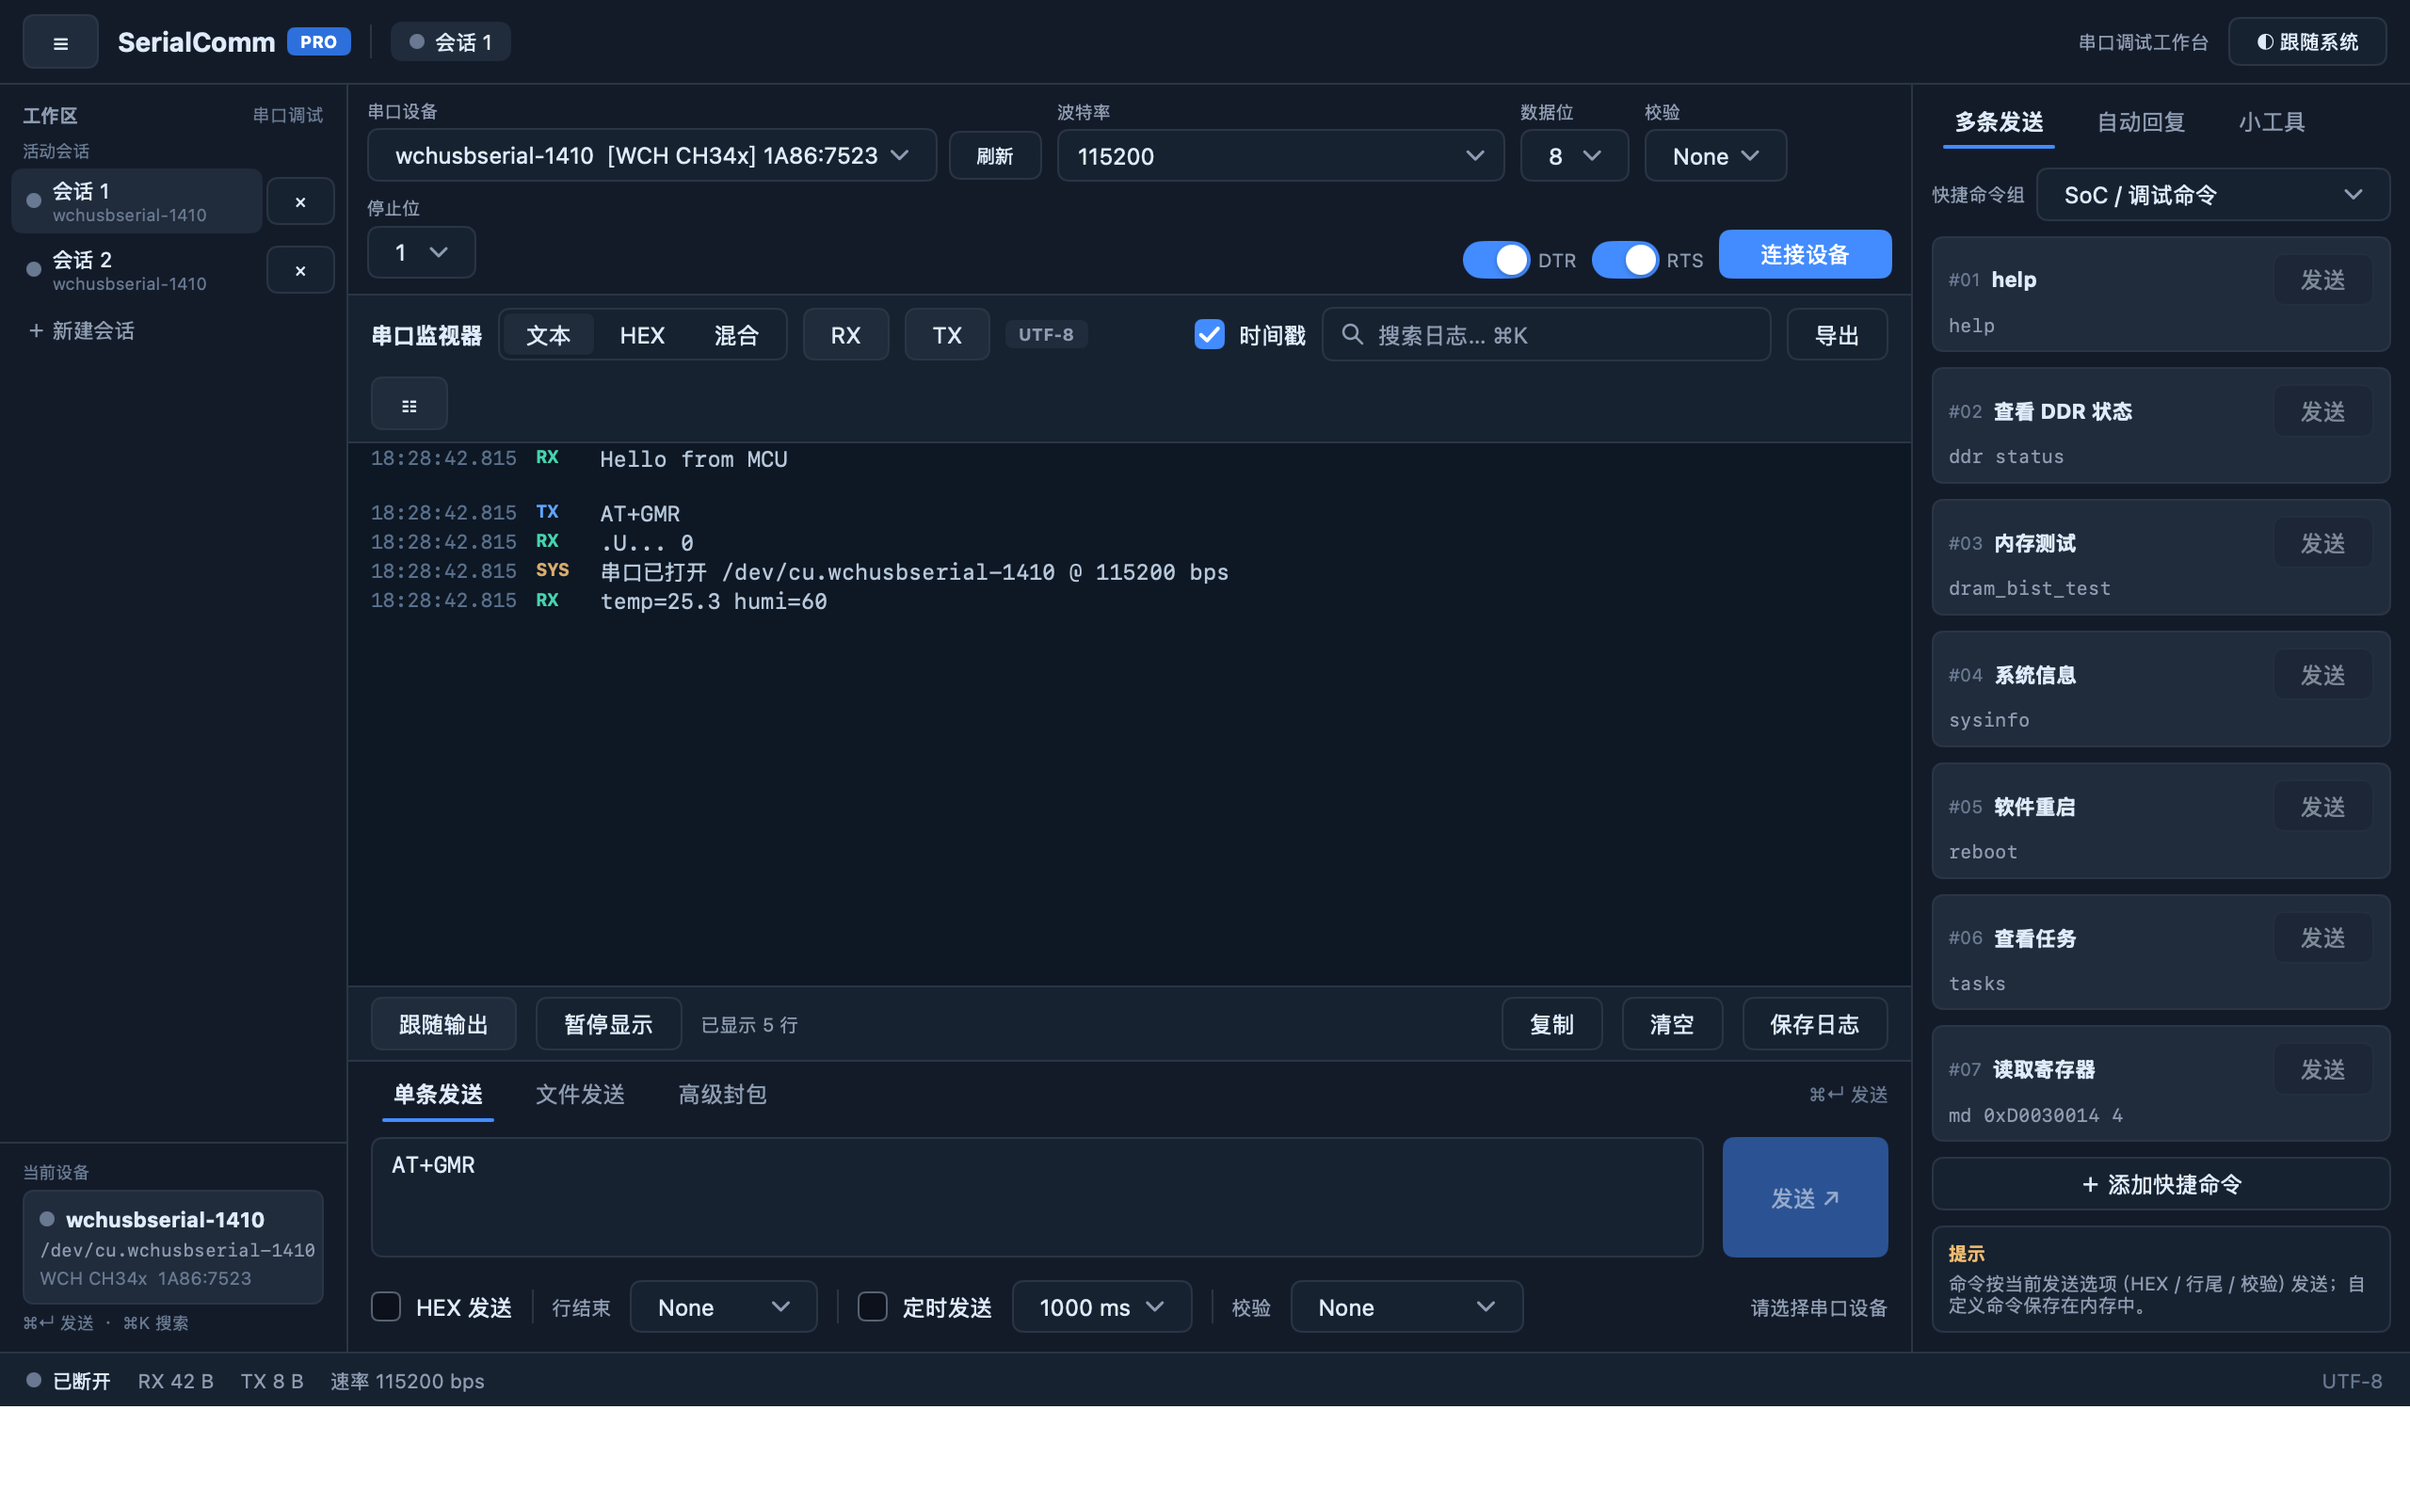
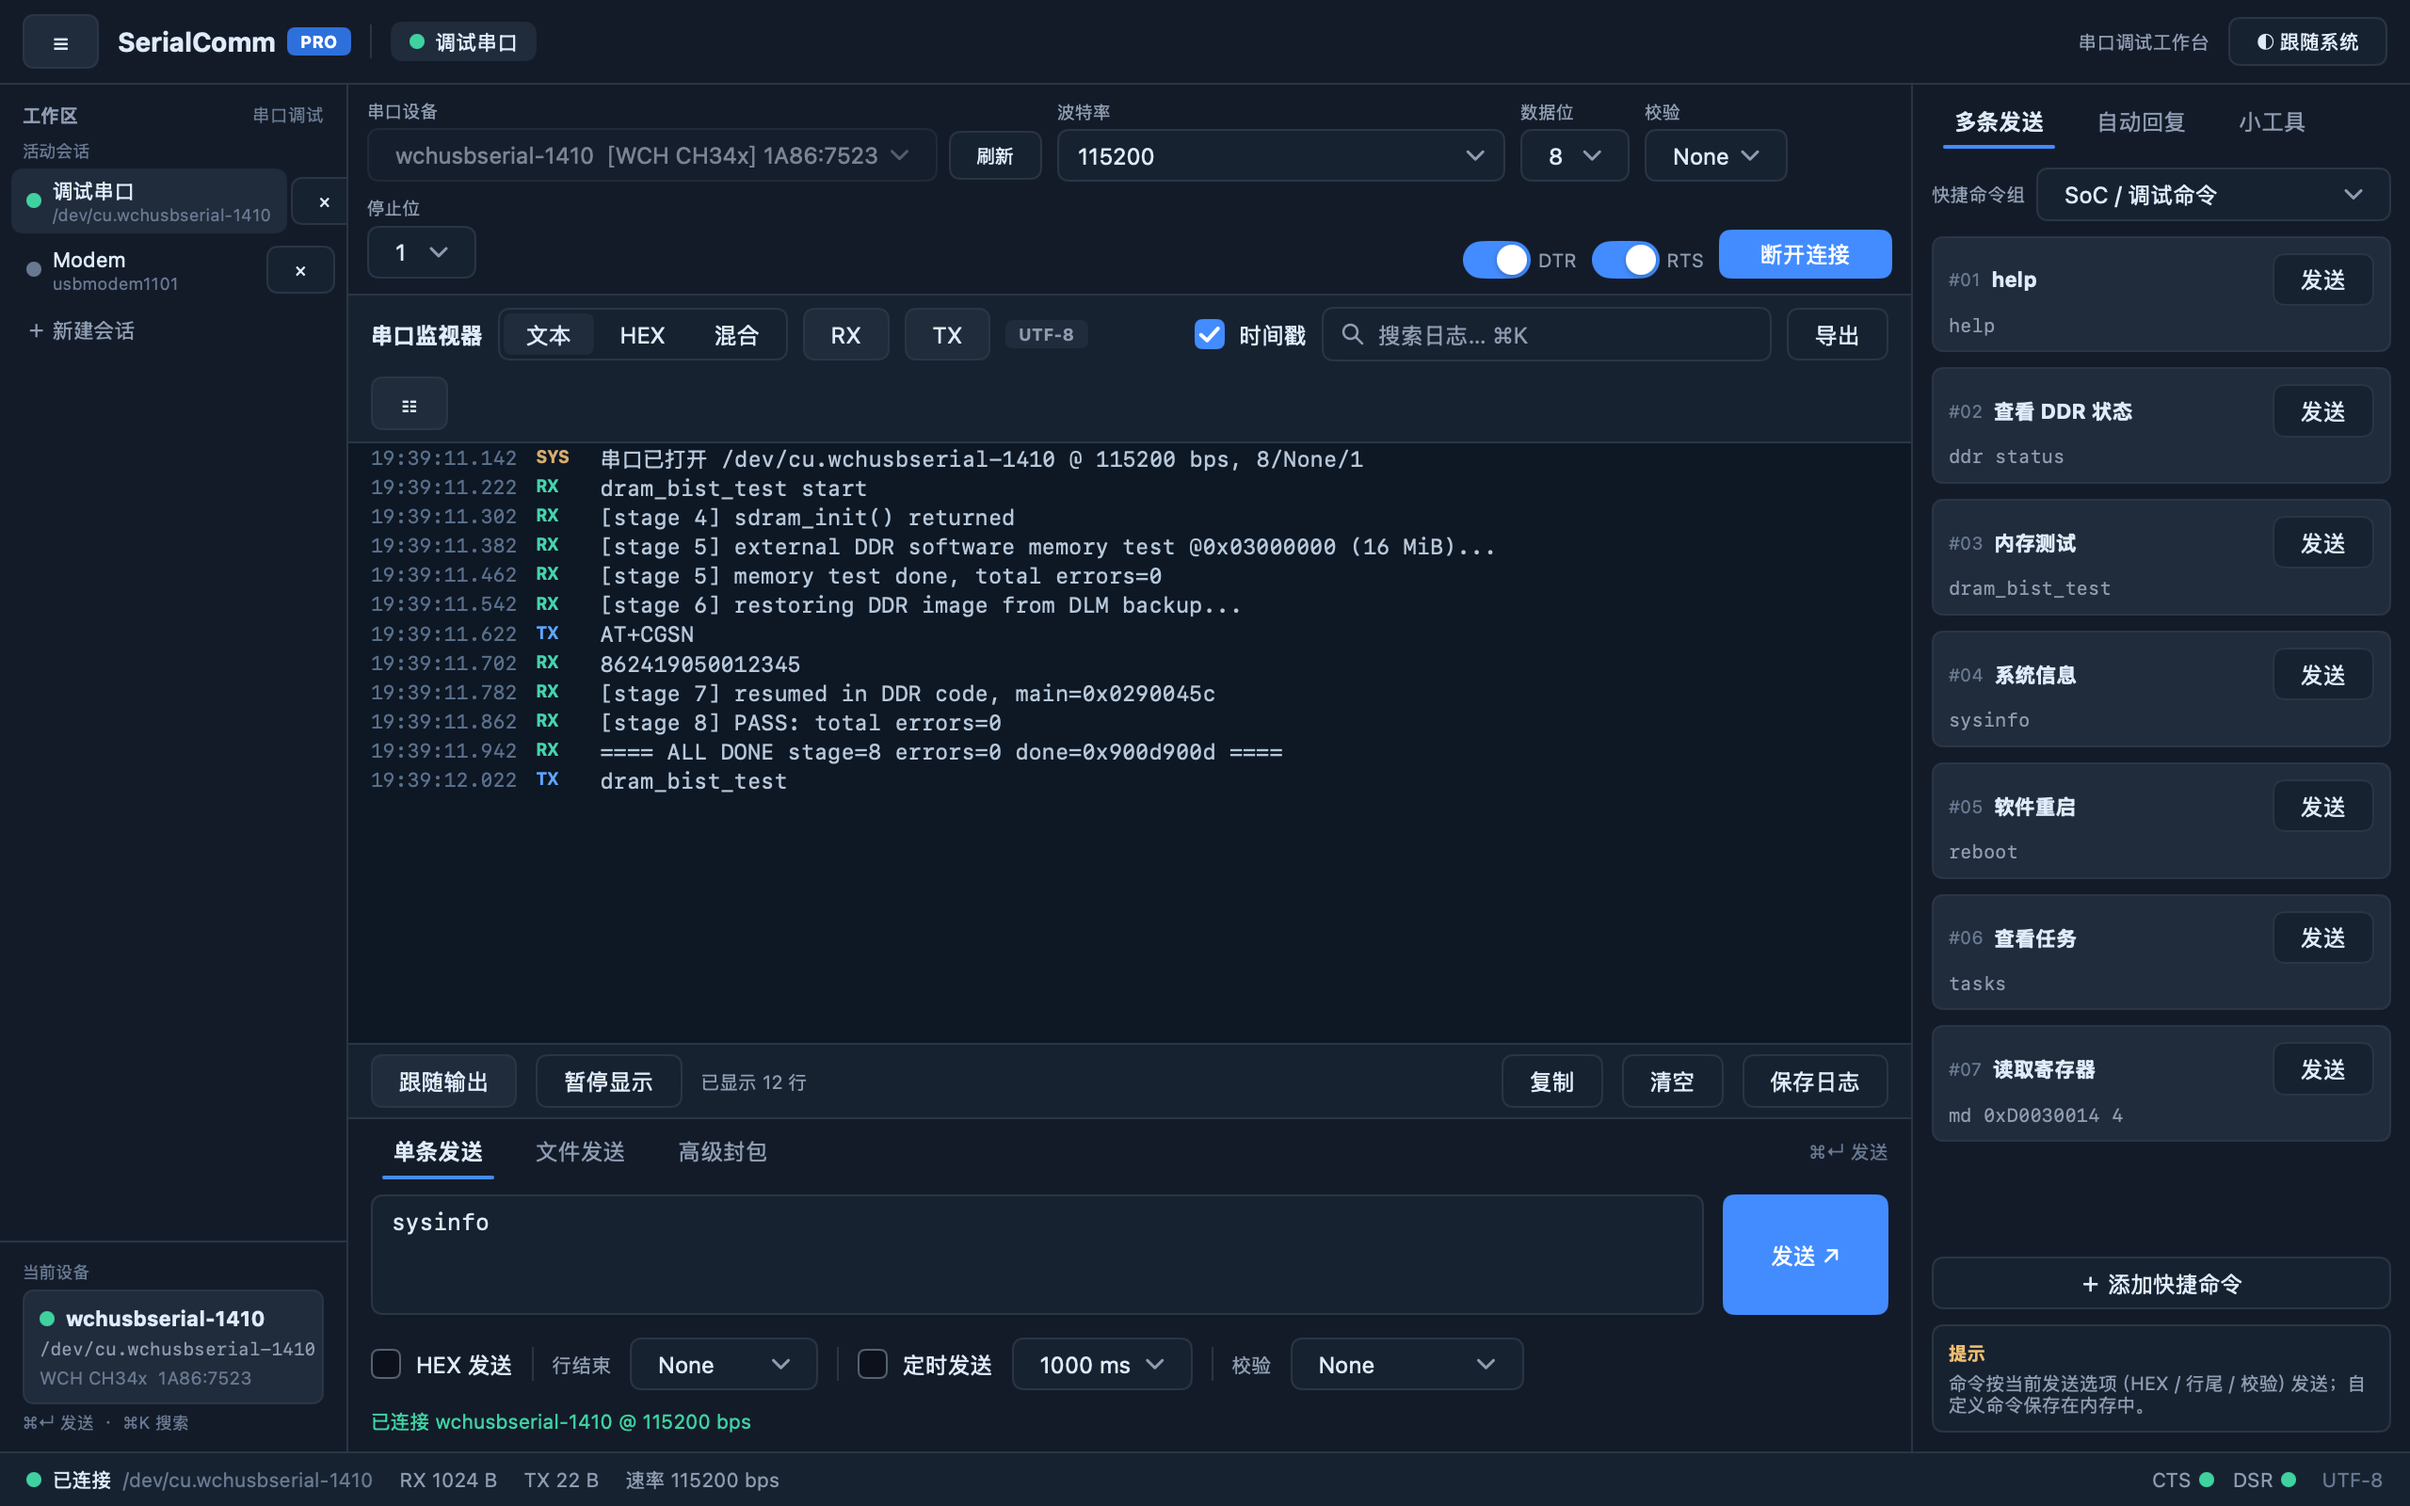
Refresh README and regenerate screenshots from the current UI
Screenshots now render a live-looking workspace (two sessions, an open
port, tagged log lines, quick commands, CTS/DSR) for both themes and
are written straight into docs/ by the render test. README covers the
workspace, console, checksum, quick commands, modem indicators and
theme features, plus Releases install steps, the fuzz test and the
CI badge.

Generated with Devin (https://devin.ai)

diff --git a/render_test.go b/render_test.go
@@ -17,26 +17,53 @@ func TestRenderScreenshot(t *testing.T) {
 		{Name: "/dev/cu.usbmodem1101", Base: "usbmodem1101", Chip: "CDC-ACM"},
 	}
 	s := a.activeSession()
+	s.name = "调试串口"
 	s.portSel = a.ports[0].label()
-	s.rxRecords = []rxRecord{
-		{id: 1, ts: time.Now(), dir: dirRX, data: []byte("Hello from MCU\r\n")},
-		{id: 2, ts: time.Now(), dir: dirTX, data: []byte("AT+GMR")},
-		{id: 3, ts: time.Now(), dir: dirRX, data: []byte{0xAA, 0x55, 0x03, 0xFF, 0x10, 0x20, 0x30}},
-		{id: 4, ts: time.Now(), dir: dirSYS, data: []byte("串口已打开 /dev/cu.wchusbserial-1410 @ 115200 bps")},
-		{id: 5, ts: time.Now(), dir: dirRX, data: []byte("temp=25.3 humi=60\n")},
-	}
+	s.opened = true
+	s.devName = "/dev/cu.wchusbserial-1410"
+	s.cts, s.dsr = true, true
+	s.status = "已连接 wchusbserial-1410 @ 115200 bps"
+	s.statusKind = 1
 	s.showTS = true
-	s.rxCount = 42
-	s.txCount = 8
-	s.sendText = "AT+GMR"
-	a.newSession()
+	now := time.Now()
+	lines := []struct {
+		dir  int
+		data string
+	}{
+		{dirSYS, "串口已打开 /dev/cu.wchusbserial-1410 @ 115200 bps, 8/None/1"},
+		{dirRX, "dram_bist_test start\r\n"},
+		{dirRX, "[stage 4] sdram_init() returned\r\n"},
+		{dirRX, "[stage 5] external DDR software memory test @0x03000000 (16 MiB)...\r\n"},
+		{dirRX, "[stage 5] memory test done, total errors=0\r\n"},
+		{dirRX, "[stage 6] restoring DDR image from DLM backup...\r\n"},
+		{dirTX, "AT+CGSN"},
+		{dirRX, "862419050012345\r\n"},
+		{dirRX, "[stage 7] resumed in DDR code, main=0x0290045c\r\n"},
+		{dirRX, "[stage 8] PASS: total errors=0\r\n"},
+		{dirRX, "==== ALL DONE stage=8 errors=0 done=0x900d900d ====\r\n"},
+		{dirTX, "dram_bist_test"},
+	}
+	for i, l := range lines {
+		s.rxRecords = append(s.rxRecords, rxRecord{
+			id: i + 1, ts: now.Add(time.Duration(i) * 80 * time.Millisecond),
+			dir: l.dir, data: []byte(l.data),
+		})
+	}
+	s.rxCount = 1024
+	s.txCount = 22
+	s.sendText = "sysinfo"
+
+	s2 := a.newSession()
+	s2.name = "Modem"
+	s2.portSel = a.ports[2].label()
 	a.active = 0
+
 	for _, dark := range []bool{true, false} {
 		a.dark = dark
 		img := ui.Render(a.view, 1280, 800, 2)
-		name := "/tmp/serialcomm_render_dark.png"
+		name := "docs/screenshot.png"
 		if !dark {
-			name = "/tmp/serialcomm_render_light.png"
+			name = "docs/screenshot-light.png"
 		}
 		f, err := os.Create(name)
 		if err != nil {

diff --git a/README.md b/README.md
@@ -1,32 +1,59 @@
 # SerialComm
 
-A serial port tool for macOS in the spirit of SSCOM — written in pure Go
-with [MyGo](https://github.com/egoist/mygo) native UI (GPU-rendered, no
-webview, no cgo) and [go.bug.st/serial](https://go.bug.st/serial).
+[![CI](https://github.com/xixijay1988/SerialComm/actions/workflows/ci.yml/badge.svg)](https://github.com/xixijay1988/SerialComm/actions/workflows/ci.yml)
+
+A serial port debugging tool for macOS in the spirit of SSCOM — written
+in pure Go with [MyGo](https://github.com/egoist/mygo) native UI
+(GPU-rendered, no webview, no cgo) and
+[go.bug.st/serial](https://go.bug.st/serial).
 
 ![SerialComm](docs/screenshot.png)
 
+<details><summary>Light theme</summary>
+
+![SerialComm light](docs/screenshot-light.png)
+
+</details>
+
 ## Features
 
-- **Port enumeration** — lists `/dev/cu.*` devices with chipset detection
-  (WCH CH34x incl. CH347, FTDI, Silicon Labs CP210x, Prolific PL2303,
-  CDC-ACM, Espressif, STM32…) and USB VID:PID resolved through IOKit;
-  the list refreshes itself on plug/unplug
+- **Workspace sessions** — multiple independent sessions, each with its
+  own port, configuration, log, counters and send settings; create,
+  switch and close from the sidebar
+- **Port enumeration** — lists `/dev/cu.*` devices with chipset
+  detection (WCH CH34x incl. CH347, FTDI, CP210x, PL2303, CDC-ACM,
+  Espressif, STM32…) and USB VID:PID resolved through IOKit; the list
+  refreshes itself on plug/unplug
 - **Full port configuration** — baud rate (editable, incl. non-standard
   rates), data bits 5–8, parity None/Odd/Even/Mark/Space, stop bits
   1/1.5/2 — re-applied live while the port is open
-- **Receive** — Text/HEX display, per-chunk timestamps, pause, clear,
-  save to file, RX/TX byte counters, auto-scroll to newest data
-- **Send** — text or HEX input, line-ending suffix (None/\r/\n/\r\n/\n\r),
-  periodic send with a configurable interval
+- **Console** — Text/HEX/mixed display, RX/TX/SYS tags, per-line
+  timestamps, RX/TX filters, search (⌘K), pause, follow-tail,
+  selectable and copyable log text, copy/clear/save; stale driver
+  buffer is flushed on connect so the log starts at the live stream
+- **Send** — text or HEX input, line-ending suffix (None/CR/LF/CRLF),
+  periodic send with a configurable interval, appended checksum
+  (CRC16-Modbus, CRC16-CCITT, SUM8, XOR8), ⌘↵ to send
+- **Quick commands** — preset command groups (SoC debug, AT, Modbus
+  RTU) plus user-defined commands, one click to send
 - **Modem lines** — DTR/RTS toggles (handy for resetting MCUs into
-  download mode)
-- **Responsiveness** — all blocking work (subprocesses, serial I/O) stays
-  off the UI thread; UTF-8 safe text view (CJK text is not mangled)
+  download mode), CTS/DSR indicators in the status bar
+- **Appearance** — follows the macOS system appearance, or pin light /
+  dark manually
+- **Responsiveness** — all blocking work (subprocesses, serial I/O)
+  stays off the UI thread; UTF-8 safe text view (CJK is not mangled)
+
+## Install
+
+Download the DMG from
+[Releases](https://github.com/xixijay1988/SerialComm/releases)
+(macOS, Apple Silicon). The app is ad-hoc signed — if Gatekeeper blocks
+it, right-click → Open, or run
+`xattr -dr com.apple.quarantine SerialComm.app`.
 
 ## Requirements
 
-- Go 1.27.3+ (older toolchains fetch it automatically via `toolchain`)
+- Go 1.27+ (older toolchains fetch it automatically via `toolchain`)
 - macOS (Linux/Windows should work but are untested)
 
 ## Run
@@ -39,8 +66,11 @@ go tool mygo dev    # develop with live reload
 ## Test
 
 ```sh
-CGO_ENABLED=0 go test ./...
-go tool mygo vet .
+go test ./...        # unit + view + fuzz-seed tests
+go test -race ./...  # race detector
+go vet ./...
+go tool mygo vet .   # MyGo lifetime/threading checks
+go test -fuzz=FuzzParseHex -fuzztime=10s .  # fuzz the hex parser
 ```
 
 ## Package
@@ -49,15 +79,21 @@ go tool mygo vet .
 go tool mygo build  # -> build/darwin-arm64/SerialComm.app + .dmg
 ```
 
+Tagging `vX.Y.Z` and pushing runs the release workflow: tests, builds
+the DMG and publishes it to GitHub Releases.
+
 ## Layout
 
-| File            | Contents                                                        |
-| --------------- | --------------------------------------------------------------- |
-| `main.go`       | app state, view, port read/send goroutines                       |
-| `serial.go`     | port enumeration (chip detection, ioreg VID/PID), mode parsing   |
-| `format.go`     | hex dump/parse, UTF-8 safe display sanitizing                    |
-| `main_test.go`  | unit + view tests (`ui.NewTester`)                               |
-| `render_test.go`| renders the view to `/tmp/serialcomm_render.png`                |
+| File               | Contents                                                        |
+| ------------------ | --------------------------------------------------------------- |
+| `main.go`          | app/session state, connect, read/send loops, record assembly     |
+| `view.go`          | the whole UI: sidebar, console, send area, status bar            |
+| `serial.go`        | port enumeration (chip detection, ioreg VID/PID), mode parsing   |
+| `format.go`        | hex dump/parse, UTF-8 safe display sanitizing                    |
+| `checksum.go`      | CRC16-Modbus/CCITT, SUM8, XOR8                                   |
+| `commands.go`      | quick-command groups                                            |
+| `theme.go`         | light/dark palettes                                             |
+| `*_test.go`        | per-file tests + fuzz + property tests + render screenshots      |
 
 ---
 
@@ -69,23 +105,40 @@ go tool mygo build  # -> build/darwin-arm64/SerialComm.app + .dmg
 
 ## 功能
 
+- **多会话工作区**：每个会话独立持有串口、参数、日志、计数和发送
+  设置；侧栏可新建/切换/关闭
 - **串口枚举**：列出 `/dev/cu.*` 设备，识别芯片（WCH CH34x 含 CH347、
   FTDI、CP210x、PL2303、CDC-ACM、ESP32、STM32 等），经 IOKit 解析
-  USB VID:PID；插拔自动刷新列表
+  USB VID:PID；插拔自动刷新
 - **串口配置**：波特率（可手输任意值）、数据位 5–8、校验位
-  None/Odd/Even/Mark/Space、停止位 1/1.5/2；打开状态下可实时改参数
-- **接收**：文本/HEX 显示、时间戳、暂停、清空、保存到文件、RX/TX
-  字节计数、自动滚动到最新数据；UTF-8 安全（中文不乱码）
-- **发送**：文本或 HEX 输入、行尾追加（None/\r/\n/\r\n/\n\r）、
-  可配置间隔的定时发送
-- **信号线**：DTR/RTS 控制（可用于复位 MCU 进下载模式）
-- **流畅性**：所有阻塞操作（子进程、串口 I/O）都不在 UI 线程
+  None/Odd/Even/Mark/Space、停止位 1/1.5/2；连接中可实时改参数
+- **控制台**：文本/HEX/混合显示、RX/TX/SYS 彩色标签、逐行时间戳、
+  RX/TX 过滤、搜索（⌘K）、暂停、跟随输出、日志可框选复制、
+  复制/清空/保存；连接时自动清空驱动旧缓存，只显示实时数据
+- **发送**：文本或 HEX、行尾追加（None/CR/LF/CRLF）、可配置间隔的
+  定时发送、附加校验（CRC16-Modbus、CRC16-CCITT、SUM8、XOR8）、
+  ⌘↵ 快捷发送
+- **快捷命令**：内置命令组（SoC 调试、AT、Modbus RTU）+ 自定义命令，
+  一键发送
+- **信号线**：DTR/RTS 控制（可复位 MCU 进下载模式），状态栏显示
+  CTS/DSR
+- **外观**：默认跟随 macOS 系统浅色/深色，也可手动固定
+- **流畅性**：所有阻塞操作（子进程、串口 I/O）都不在 UI 线程；
+  UTF-8 安全（中文不乱码）
+
+## 安装
+
+从 [Releases](https://github.com/xixijay1988/SerialComm/releases)
+下载 DMG（macOS，Apple Silicon）。应用为 ad-hoc 签名，首次打开如被
+Gatekeeper 拦截：右键 → 打开，或
+`xattr -dr com.apple.quarantine SerialComm.app`。
 
 ## 运行
 
 ```sh
 go run .            # 编译运行
 go tool mygo dev    # 开发模式（热重载）
+go test ./...       # 单元测试 + 视图测试 + fuzz 语料
 go tool mygo build  # 打包 .app + .dmg
 ```
 
